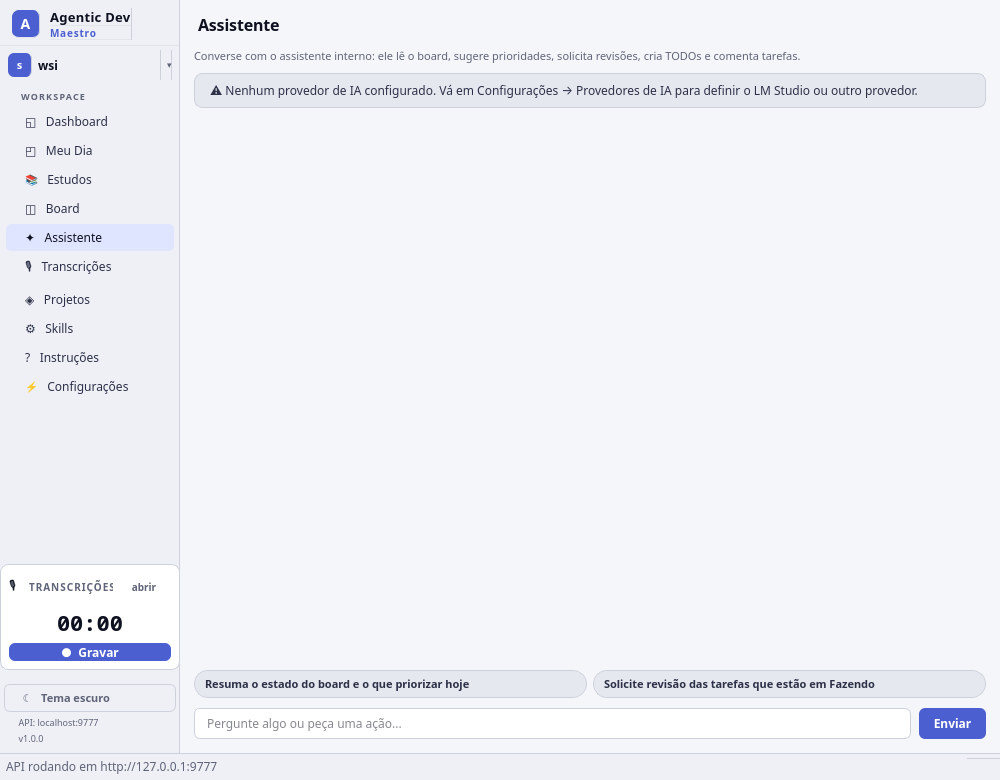
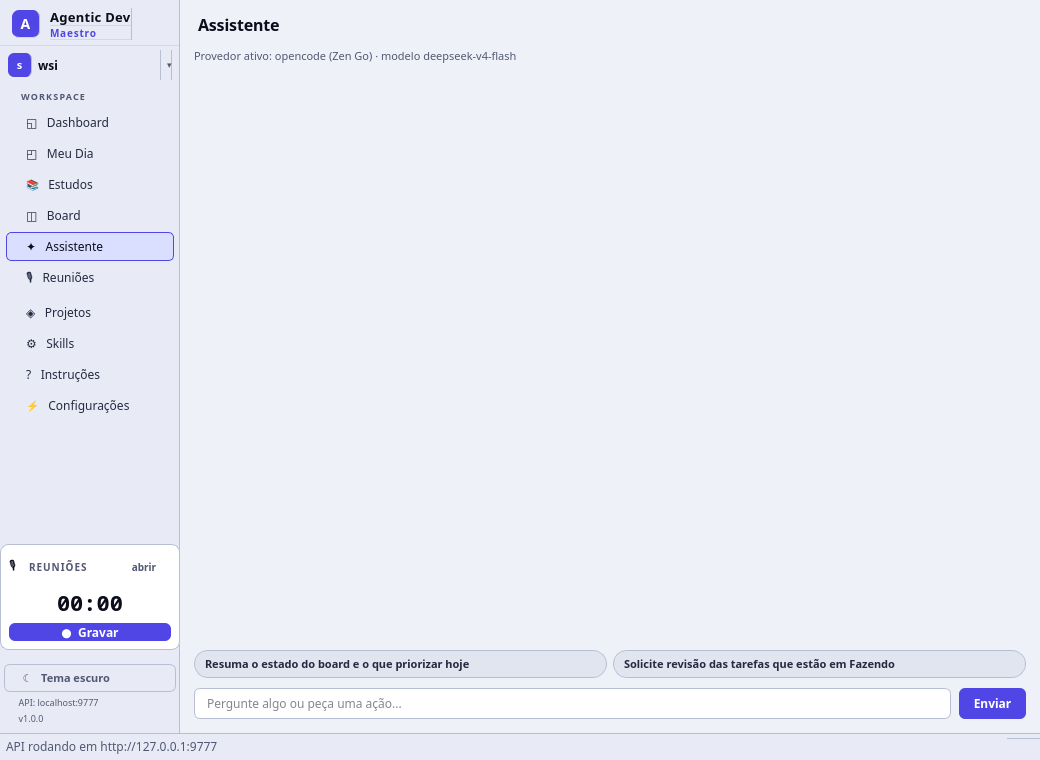
docs(screenshots): atualiza prints com as novas funcionalidades
Regenera os screenshots (tema claro) com o tema novo e as features recentes,
e adiciona um gerador reproduzível.

- board: abas Board/Planejamento, seletor de sprint (ativa por padrão),
  botões com borda e tema claro mais vibrante.
- planejamento-light (novo): board de alocação (Backlog + sprints, capacidade
  vs comprometido, mover tarefa entre sprints).
- reunioes-light (novo, substitui transcricoes-light): copiloto ao vivo com
  abas Plano/Dicas/Ações/Decisões/Perguntas.
- estudos-light: painel do assistente de estudo no detalhe do plano.
- demais telas regeneradas para o tema novo.
- scripts/gen_screenshots.py: gera os prints do workspace demo (wsi) offscreen,
  semeando sprints e plano de estudo de forma idempotente.
- README: galeria atualizada (Board com sprints, Planejamento, Reuniões, Estudos).

diff --git a/local-client/scripts/gen_screenshots.py b/local-client/scripts/gen_screenshots.py
@@ -1,0 +1,188 @@
+"""Gera os screenshots (tema claro) da documentação a partir do workspace demo.
+
+Uso:
+    QT_QPA_PLATFORM=offscreen python -m scripts.gen_screenshots
+    (ou)  QT_QPA_PLATFORM=offscreen python scripts/gen_screenshots.py
+
+Usa o workspace "wsi" (projeto demo MST "Maestro App"), semeia dados das
+funcionalidades novas (sprints + plano de estudo) de forma idempotente, aplica
+o tema claro e captura cada tela para local-client/docs/screenshots/*-light.png.
+"""
+from __future__ import annotations
+
+import os
+import sys
+from pathlib import Path
+
+os.environ.setdefault("QT_QPA_PLATFORM", "offscreen")
+
+ROOT = Path(__file__).resolve().parents[1]
+sys.path.insert(0, str(ROOT))
+
+WS_ID = "wsi"
+OUT = ROOT / "docs" / "screenshots"
+SIZE = (1040, 760)
+
+
+def seed_demo(session, models):
+    """Garante sprints e um plano de estudo no projeto demo (idempotente)."""
+    Project = models.Project
+    Sprint = models.Sprint
+    Task = models.Task
+    StudyPlan = models.StudyPlan
+    StudyTopic = models.StudyTopic
+
+    p = session.query(Project).filter(Project.key == "MST").first()
+    if not p:
+        return
+    # Sprints
+    if not session.query(Sprint).filter(Sprint.project_id == p.id).count():
+        s1 = Sprint(project_id=p.id, name="Sprint 1 — MVP", goal="Fluxo principal do board",
+                    status="ATIVA", capacity=12.0, sort_order=0)
+        s2 = Sprint(project_id=p.id, name="Sprint 2 — Beta", goal="Métricas e polimento",
+                    status="PLANEJADA", capacity=15.0, sort_order=1)
+        session.add_all([s1, s2])
+        session.flush()
+        tasks = session.query(Task).filter(Task.project_id == p.id, Task.deleted_at.is_(None)).order_by(Task.number).all()
+        for i, tk in enumerate(tasks):
+            tk.estimate_md = tk.estimate_md or float(1 + (i % 3))
+            # 2 primeiras no backlog; restantes na sprint ativa
+            tk.sprint_id = None if i < 2 else s1.id
+        session.commit()
+    # Plano de estudo
+    if not session.query(StudyPlan).count():
+        plan = StudyPlan(title="Aprender Rust", category="LINGUAGEM",
+                         description="Do ownership ao async, com prática.")
+        session.add(plan)
+        session.flush()
+        topics = [
+            ("Ownership e Borrowing", "CONCLUIDO", 4),
+            ("Lifetimes", "ESTUDANDO", 3),
+            ("Traits e Generics", "PENDENTE", 5),
+            ("Concorrência com threads", "PENDENTE", 4),
+            ("async/await", "PENDENTE", 6),
+        ]
+        for i, (t, st, h) in enumerate(topics):
+            session.add(StudyTopic(plan_id=plan.id, title=t, status=st, sort_order=i,
+                                   weight=1.0, estimate_hours=float(h)))
+        session.commit()
+
+
+def grab(win, app, name):
+    app.processEvents()
+    app.processEvents()
+    OUT.mkdir(parents=True, exist_ok=True)
+    win.grab().save(str(OUT / f"{name}.png"))
+    print("saved", name)
+
+
+def main():
+    from maestro_local import config
+    from maestro_local.db import models
+
+    original_ws = config.get_active_workspace_id()
+    config.set_active_workspace(WS_ID)
+    db_path = config.get_workspace_db_path(WS_ID)
+    models.switch_db(db_path)
+    models.init_db(db_path)
+
+    s = models.get_session()
+    try:
+        seed_demo(s, models)
+    finally:
+        s.close()
+
+    from PySide6.QtWidgets import QApplication
+
+    from maestro_local.gui.theme import LIGHT, build_stylesheet, set_theme
+
+    app = QApplication.instance() or QApplication([])
+    set_theme(LIGHT)
+    app.setStyleSheet(build_stylesheet(LIGHT))
+
+    from maestro_local.gui.main_window import MainWindow
+
+    win = MainWindow(api_port=9777)
+    win.resize(*SIZE)
+    win.show()
+    app.processEvents()
+
+    nav = win.nav_list
+
+    def go(row):
+        nav.setCurrentRow(row)
+        app.processEvents()
+        w = win.stack.currentWidget()
+        if hasattr(w, "refresh"):
+            try:
+                w.refresh()
+            except Exception:  # noqa: BLE001
+                pass
+        app.processEvents()
+
+    # Dashboard, Meu Dia
+    go(0); grab(win, app, "dashboard-light")
+    go(1); grab(win, app, "meudia-light")
+
+    # Estudos — abre o primeiro plano para mostrar o assistente
+    go(2)
+    try:
+        plan = models.get_session()
+        p = plan.query(models.StudyPlan).first()
+        pid = p.id if p else None
+        plan.close()
+        if pid:
+            win.study_view._open_plan(pid)
+            app.processEvents()
+    except Exception:  # noqa: BLE001
+        pass
+    grab(win, app, "estudos-light")
+
+    # Board (aba de fluxo) + Planejamento de Sprints — abre o projeto demo
+    go(3)
+    try:
+        bs = models.get_session()
+        mst = bs.query(models.Project).filter(models.Project.key == "MST").first()
+        mst_id = mst.id if mst else None
+        bs.close()
+        if mst_id:
+            win.board_view.set_project(mst_id)
+            app.processEvents()
+    except Exception:  # noqa: BLE001
+        pass
+    win.board_view.tabs.setCurrentIndex(0)
+    grab(win, app, "board-light")
+    win.board_view.tabs.setCurrentIndex(1)
+    app.processEvents()
+    grab(win, app, "planejamento-light")
+    win.board_view.tabs.setCurrentIndex(0)
+
+    # Assistente (chat)
+    go(4); grab(win, app, "chat-light")
+
+    # Reuniões — mostra o painel ao vivo (copiloto) populado
+    go(5)
+    tv = win.transcricoes_view
+    tv.live_box.setVisible(True)
+    tv._live_state = {
+        "action_items": [{"description": "Ajustar validação do CSV", "assignee": "Ana"}],
+        "decisions": ["Adotar dark mode no dashboard"],
+        "open_questions": ["Qual limite de linhas na exportação?"],
+        "plan": ["Levantar requisitos", "Prototipar UI", "Implementar e testar"],
+        "tips": ["Validar acessibilidade do tema", "Cobrir exportação com testes"],
+    }
+    tv._refresh_live_panels()
+    grab(win, app, "reunioes-light")
+
+    # Projetos, Skills, Instruções, Configurações
+    go(6); grab(win, app, "projetos-light")
+    go(7); grab(win, app, "skills-light")
+    go(8); grab(win, app, "instrucoes-light")
+    go(9); grab(win, app, "configuracoes-light")
+
+    config.set_active_workspace(original_ws)
+    print("Workspace ativo restaurado para:", original_ws)
+
+
+if __name__ == "__main__":
+    main()

diff --git a/README.md b/README.md
@@ -154,9 +154,12 @@ A API roda em `http://127.0.0.1:9777/api` sem autenticação. Endpoints principa
 
 ![Dashboard](local-client/docs/screenshots/dashboard-light.png)
 ![Meu Dia](local-client/docs/screenshots/meudia-light.png)
-![Board](local-client/docs/screenshots/board-light.png)
+![Board com sprints](local-client/docs/screenshots/board-light.png)
+![Planejamento de Sprints](local-client/docs/screenshots/planejamento-light.png)
+![Estudos com assistente](local-client/docs/screenshots/estudos-light.png)
 ![Assistente](local-client/docs/screenshots/chat-light.png)
-![Transcrições](local-client/docs/screenshots/transcricoes-light.png)
+![Reuniões (copiloto ao vivo)](local-client/docs/screenshots/reunioes-light.png)
+![Projetos](local-client/docs/screenshots/projetos-light.png)
 ![Skills](local-client/docs/screenshots/skills-light.png)
 ![Instruções](local-client/docs/screenshots/instrucoes-light.png)
 ![Configurações](local-client/docs/screenshots/configuracoes-light.png)
